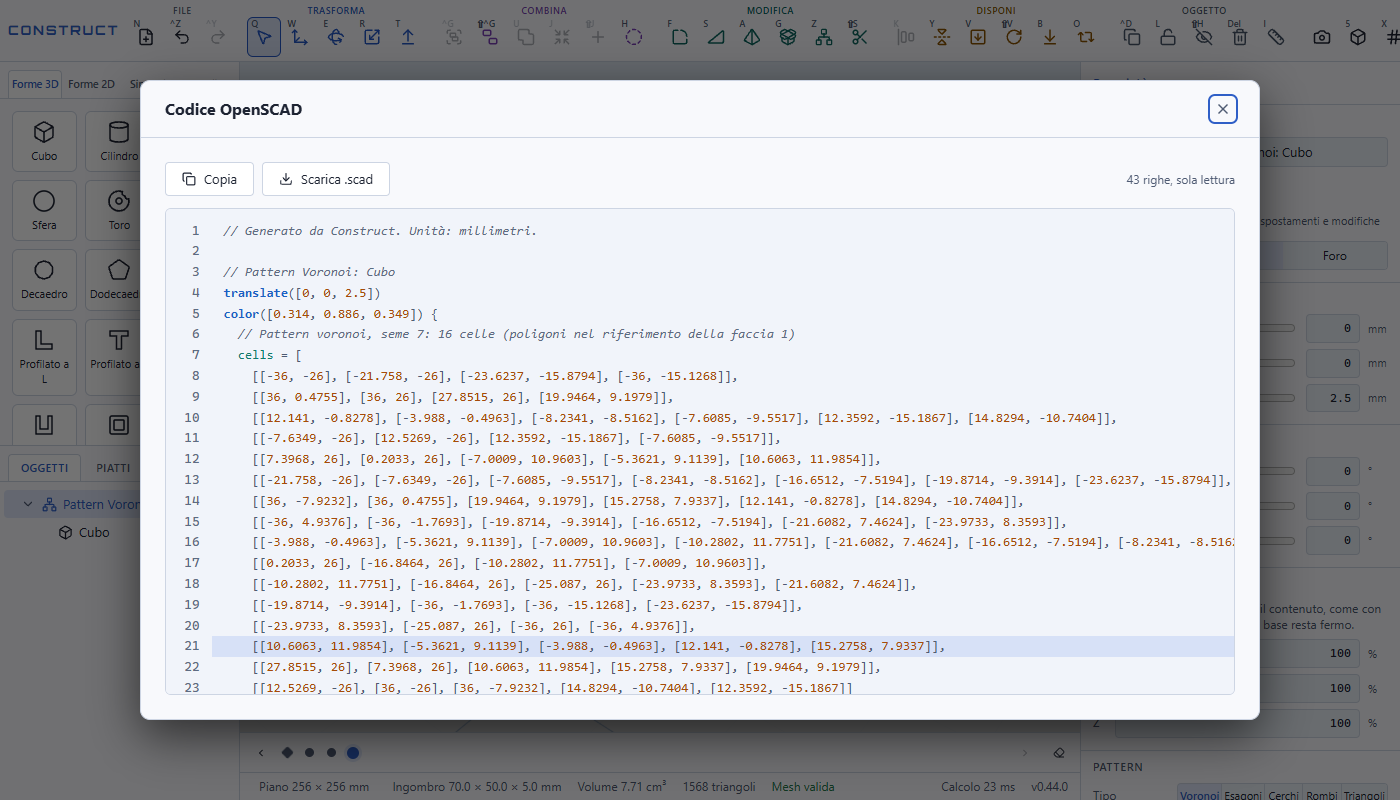
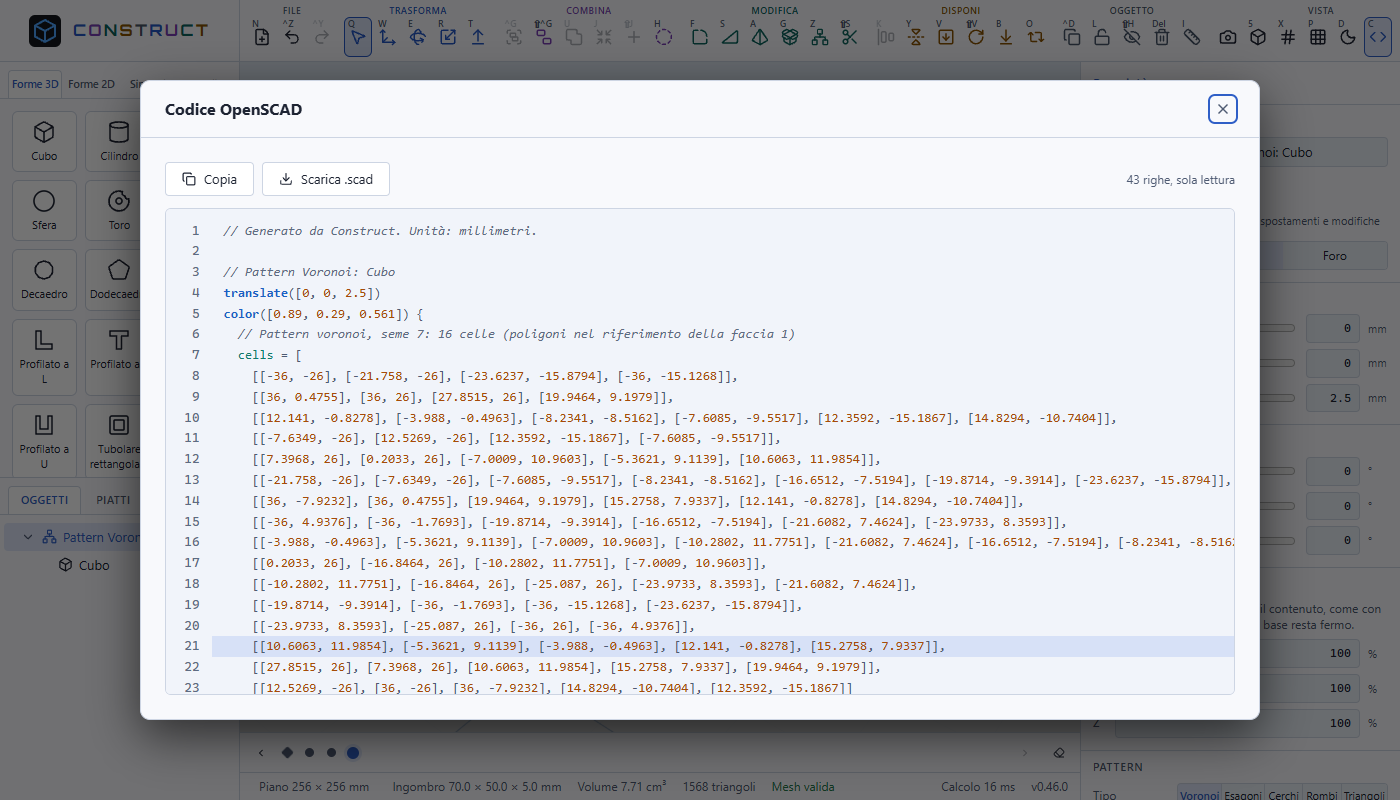
feat: marchio colorato in cima alla barra laterale sinistra a tutta altezza (0.46.0)
La barra laterale sinistra sale fino in cima e ospita il marchio (icona della
favicon e nome con una tinta per lettera, le cinque delle sezioni della barra
strumenti a rotazione); la barra strumenti parte alla sua destra. Sotto i
1760 px i pulsanti si stringono per tenere visibile il gruppo Vista.

diff --git a/e2e/app.spec.ts b/e2e/app.spec.ts
@@ -336,7 +336,7 @@ test('Esporta STL scarica un file binario valido', async ({ page }) => {
 test('la versione sta nel title e non più accanto al logo; il nome dell\'app è Construct', async ({ page }) => {
   const { version } = JSON.parse((await import('node:fs')).readFileSync('package.json', 'utf8'));
   await expect(page).toHaveTitle(`Construct v${version}`);
-  await expect(page.locator('.toolbar__brand')).toHaveText('Construct');
+  await expect(page.locator('.brand__name')).toHaveText('Construct');
   await expect(page.locator('.toolbar__version')).toHaveCount(0);
 });
 
@@ -3265,7 +3265,7 @@ test('Menu hamburger: la voce Schermata di benvenuto riapre il benvenuto, e le s
 });
 
 test('Il nome dell\'app è in maiuscolo con Orbitron e il font è tra quelli del Testo', async ({ page }) => {
-  const brand = page.locator('.toolbar__brand');
+  const brand = page.locator('.brand__name');
   expect(await brand.evaluate((el) => getComputedStyle(el).textTransform)).toBe('uppercase');
   expect(await brand.evaluate((el) => getComputedStyle(el).fontFamily)).toContain('Orbitron');
   // Il file del font è stato caricato (@font-face)
@@ -3274,6 +3274,36 @@ test('Il nome dell\'app è in maiuscolo con Orbitron e il font è tra quelli del
   const fonts = await page.evaluate(() => window.__construct!.store.getState().scene.rootIds.length);
   expect(fonts).toBe(1);
   await expect(page.getByRole('option', { name: 'Orbitron Bold' })).toHaveCount(1);
+});
+
+test('Il marchio sta in cima alla barra laterale, centrato, con una tinta per lettera; la barra strumenti parte alla sua destra', async ({ page }) => {
+  const box = async (selector: string) => (await page.locator(selector).boundingBox())!;
+  const side = await box('aside.app__left');
+  const toolbar = await box('header.toolbar');
+  const mark = await box('.brand__mark');
+  const name = await box('.brand__name');
+
+  // La barra laterale sale fino in cima e il marchio è dentro, come prima cosa
+  expect(side.y).toBe(0);
+  await expect(page.locator('aside.app__left > :first-child')).toHaveClass(/brand/);
+  await expect(page.locator('header.toolbar .brand')).toHaveCount(0);
+  // La barra strumenti parte subito a destra della barra laterale, in cima
+  expect(toolbar.y).toBe(0);
+  expect(Math.abs(toolbar.x - (side.x + side.width))).toBeLessThanOrEqual(1);
+  // Icona e scritta insieme sono centrate rispetto alla barra laterale
+  const center = (mark.x + name.x + name.width) / 2;
+  expect(Math.abs(center - (side.x + side.width / 2))).toBeLessThanOrEqual(4);
+  // I bordi inferiori di marchio e barra strumenti sono alla stessa altezza
+  expect(Math.abs(mark.y + mark.height / 2 - toolbar.height / 2)).toBeLessThanOrEqual(1);
+
+  // Nove lettere con le cinque tinte delle sezioni, a rotazione
+  const colors = await page.locator('.brand__letter').evaluateAll((els) => els.map((el) => getComputedStyle(el).color));
+  expect(colors).toHaveLength(9);
+  expect(new Set(colors).size).toBe(5);
+  for (let i = 5; i < colors.length; i++) expect(colors[i]).toBe(colors[i - 5]);
+  // Le tinte sono quelle dei pulsanti delle sezioni (Trasforma = prima lettera)
+  const transformButton = await page.locator('.toolbar__section--transform .toolbar__button').first().evaluate((el) => getComputedStyle(el).color);
+  expect(colors[0]).toBe(transformButton);
 });
 
 test('Timeline: indicatori con tooltip del tipo di operazione e icona per svuotare la cronologia', async ({ page }) => {

diff --git a/src/ui/Brand/Brand.tsx b/src/ui/Brand/Brand.tsx
@@ -1,0 +1,25 @@
+import './Brand.scss';
+
+const NAME = 'Construct';
+/** Le tinte delle sezioni della barra strumenti (token `tool-*`): si assegnano alle lettere a rotazione. */
+const TONES = ['transform', 'combine', 'modify', 'arrange', 'object'] as const;
+
+/** Marchio dell'app in cima alla barra laterale: l'icona della favicon e il nome con una tinta per lettera. */
+export function Brand() {
+  return (
+    <div className="brand">
+      {/* Stesso disegno di public/favicon.svg */}
+      <svg className="brand__mark" viewBox="0 0 64 64" width="32" height="32" aria-hidden="true">
+        <rect width="64" height="64" rx="12" fill="#14171c" />
+        <path d="M32 10 52 21v22L32 54 12 43V21z" fill="none" stroke="#4da3ff" strokeWidth="4" strokeLinejoin="round" />
+        <path d="M12 21l20 11 20-11M32 32v22" fill="none" stroke="#4da3ff" strokeWidth="4" strokeLinejoin="round" />
+      </svg>
+      {/* Il testo resta "Construct" (le lettere sono span adiacenti): il maiuscolo lo mette il CSS */}
+      <span className="brand__name brand-name">
+        {[...NAME].map((letter, i) => (
+          <span key={i} className={`brand__letter brand__letter--${TONES[i % TONES.length]}`}>{letter}</span>
+        ))}
+      </span>
+    </div>
+  );
+}

diff --git a/src/App.tsx b/src/App.tsx
@@ -1,4 +1,5 @@
 import { Suspense, useEffect } from 'react';
+import { Brand } from './ui/Brand/Brand';
 import { Toolbar } from './ui/Toolbar/Toolbar';
 import { ContextMenu } from './ui/ContextMenu/ContextMenu';
 import { WelcomeDialog } from './ui/Welcome/WelcomeDialog';
@@ -48,18 +49,21 @@ export default function App() {
         void importFiles(Array.from(e.dataTransfer.files));
       }}
     >
-      <Toolbar />
-      <div className="app__body">
-        <aside className="app__left" aria-label="Libreria e oggetti">
-          <LibraryTabs />
-          <Outliner />
-        </aside>
-        <main className="app__center">
-          <Viewport />
-          <Timeline />
-          <StatusBar />
-        </main>
-        <Sidebar />
+      <aside className="app__left" aria-label="Libreria e oggetti">
+        <Brand />
+        <LibraryTabs />
+        <Outliner />
+      </aside>
+      <div className="app__main">
+        <Toolbar />
+        <div className="app__body">
+          <main className="app__center">
+            <Viewport />
+            <Timeline />
+            <StatusBar />
+          </main>
+          <Sidebar />
+        </div>
       </div>
       {codeOpen && (
         <Suspense fallback={null}>

diff --git a/src/ui/Toolbar/Toolbar.scss b/src/ui/Toolbar/Toolbar.scss
@@ -9,13 +9,6 @@
   border-bottom: 1px solid color('border');
   background: color('panel');
 
-  &__brand {
-    margin-right: $space-1;
-    font-size: 13px;
-    letter-spacing: 0.08em;
-    color: color('accent');
-  }
-
   &__group {
     display: flex;
     align-items: center;
@@ -173,5 +166,24 @@
   &__button-label {
     font-size: 12px;
     font-weight: 600;
+  }
+}
+
+/*
+ * Finestre strette: la barra sta a destra della barra laterale (240 px), quindi i pulsanti si stringono per tenere
+ * visibile anche il gruppo Vista con il menu. Sopra questa larghezza non cambia nulla.
+ */
+@media (max-width: 1760px) {
+  .toolbar {
+    gap: 4px;
+
+    &__button {
+      min-width: 28px;
+      padding: 0 4px;
+    }
+
+    &__button--labeled {
+      padding: 0 $space-2;
+    }
   }
 }

diff --git a/src/ui/Brand/Brand.scss b/src/ui/Brand/Brand.scss
@@ -1,0 +1,27 @@
+@use '../../styles/abstracts' as *;
+
+// Intestazione della barra laterale: alta quanto la barra strumenti, così i due bordi inferiori si allineano
+.brand {
+  display: flex;
+  flex: none;
+  align-items: center;
+  justify-content: center;
+  gap: $space-3;
+  height: $toolbar-height;
+  border-bottom: 1px solid color('border');
+
+  &__mark {
+    flex: none;
+  }
+
+  &__name {
+    font-size: 16px;
+  }
+
+  // Una tinta per lettera, a rotazione (stessi colori delle sezioni della barra strumenti)
+  @each $tone in (transform, combine, modify, arrange, object) {
+    &__letter--#{$tone} {
+      color: color('tool-#{$tone}');
+    }
+  }
+}

diff --git a/src/App.scss b/src/App.scss
@@ -1,10 +1,17 @@
 @use './styles/abstracts' as *;
 
-// Layout a tre colonne: libreria/oggetti, viewport, proprietà/codice
+// Layout: la barra laterale sinistra (marchio, libreria, oggetti) occupa tutta l'altezza; alla sua destra stanno la barra
+// strumenti e sotto di essa viewport e proprietà/codice
 .app {
   display: flex;
-  flex-direction: column;
   height: 100%;
+
+  &__main {
+    display: flex;
+    flex: 1;
+    flex-direction: column;
+    min-width: 0;
+  }
 
   &__body {
     display: flex;

diff --git a/src/ui/Toolbar/Toolbar.tsx b/src/ui/Toolbar/Toolbar.tsx
@@ -95,8 +95,6 @@ export function Toolbar() {
 
   return (
     <header className="toolbar">
-      <div className="toolbar__brand brand-name">Construct</div>
-
       <Section label="File">
         <ToolbarButton help="new" shortcut="N" onClick={() => void newProject()}><FilePlus size={18} /></ToolbarButton>
         <ToolbarButton help="undo" shortcut="^Z" disabled={!canUndo} onClick={() => useSceneStore.temporal.getState().undo()}><Undo2 size={18} /></ToolbarButton>

diff --git a/README.md b/README.md
@@ -26,7 +26,7 @@ Tutto gira nel browser: il calcolo geometrico usa [manifold-3d](https://github.c
 - **Schermata di benvenuto** al primo avvio (e dal menu): progetto vuoto, partire da un cubo, importare un file o aprire un modello di esempio.
 - **Modelli di esempio** (menu e benvenuto): una galleria con anteprima (biglietto da visita, gioco a incastri, pallina di Natale) che sostituisce la scena, si annulla con Ctrl+Z e si inquadra da sola; i modelli sono progetti nativi incorporati nell'app, quindi si aprono anche offline.
 - **Timeline** a indicatori con il nome dell'operazione nel tooltip e un'icona per svuotare la cronologia.
-- **Barra strumenti a sezioni** (File, Trasforma, Combina, Modifica, Disponi, Oggetto, Vista), con il nome del gruppo sopra i pulsanti e una tinta per sezione.
+- **Barra strumenti a sezioni** (File, Trasforma, Combina, Modifica, Disponi, Oggetto, Vista), con il nome del gruppo sopra i pulsanti e una tinta per sezione; il marchio (icona e nome a colori) sta in cima alla barra laterale sinistra, che occupa tutta l'altezza.
 - **Nascondi** (`Maiusc+H`): toglie un oggetto dalla vista e dalla selezione (icona dell'occhio barrato nell'elenco, un clic lo mostra); resta nel progetto e nelle esportazioni.
 - **Cronologia** con Annulla e Ripeti (un solo passo per operazione) e linea del tempo.
 - **Tooltip dettagliati** su ogni comando della barra: cosa fa, come si applica e, per i comandi più complessi, un'immagine di esempio.

diff --git a/CHANGELOG.md b/CHANGELOG.md
@@ -18,7 +18,12 @@ I messaggi di commit seguono i [Conventional Commits](https://www.conventionalco
 
 ## [Non rilasciato]
 
-## [0.45.1] - 2026-10-12
+## [0.46.0] - 2026-10-12
+
+### Modificato
+- **Nuova struttura dell'interfaccia.** La barra laterale sinistra ora sale fino in cima alla finestra e ospita il marchio come prima cosa, centrato; la barra strumenti parte subito alla sua destra. Il marchio è l'icona della favicon (il cubo azzurro sul quadrato scuro) seguita dal nome Construct, con una tinta per lettera: le cinque delle sezioni della barra strumenti (blu, viola, verde acqua, ambra, ardesia) a rotazione. L'intestazione è alta quanto la barra strumenti, così i bordi inferiori restano allineati.
+- **Barra strumenti più compatta sulle finestre strette.** Avendo 240 px in meno, sotto i 1760 px i pulsanti si stringono, così il gruppo Vista con il menu resta visibile fino a circa 1440 px di larghezza (senza questa correzione la barra si sarebbe tagliata già sotto i 1670 px).
+ - 2026-10-12
 
 ### Aggiunto
 - **Menu contestuale nell'elenco Oggetti.** Il clic destro su una riga seleziona l'oggetto (se non lo è già) e apre lo stesso menu dei comandi della vista 3D, Nascondi compreso. Su un oggetto nascosto, che non si può selezionare, il menu offre la sola voce **Mostra**. I figli di un gruppo nascosto non aprono nulla: si mostrano dal gruppo.
